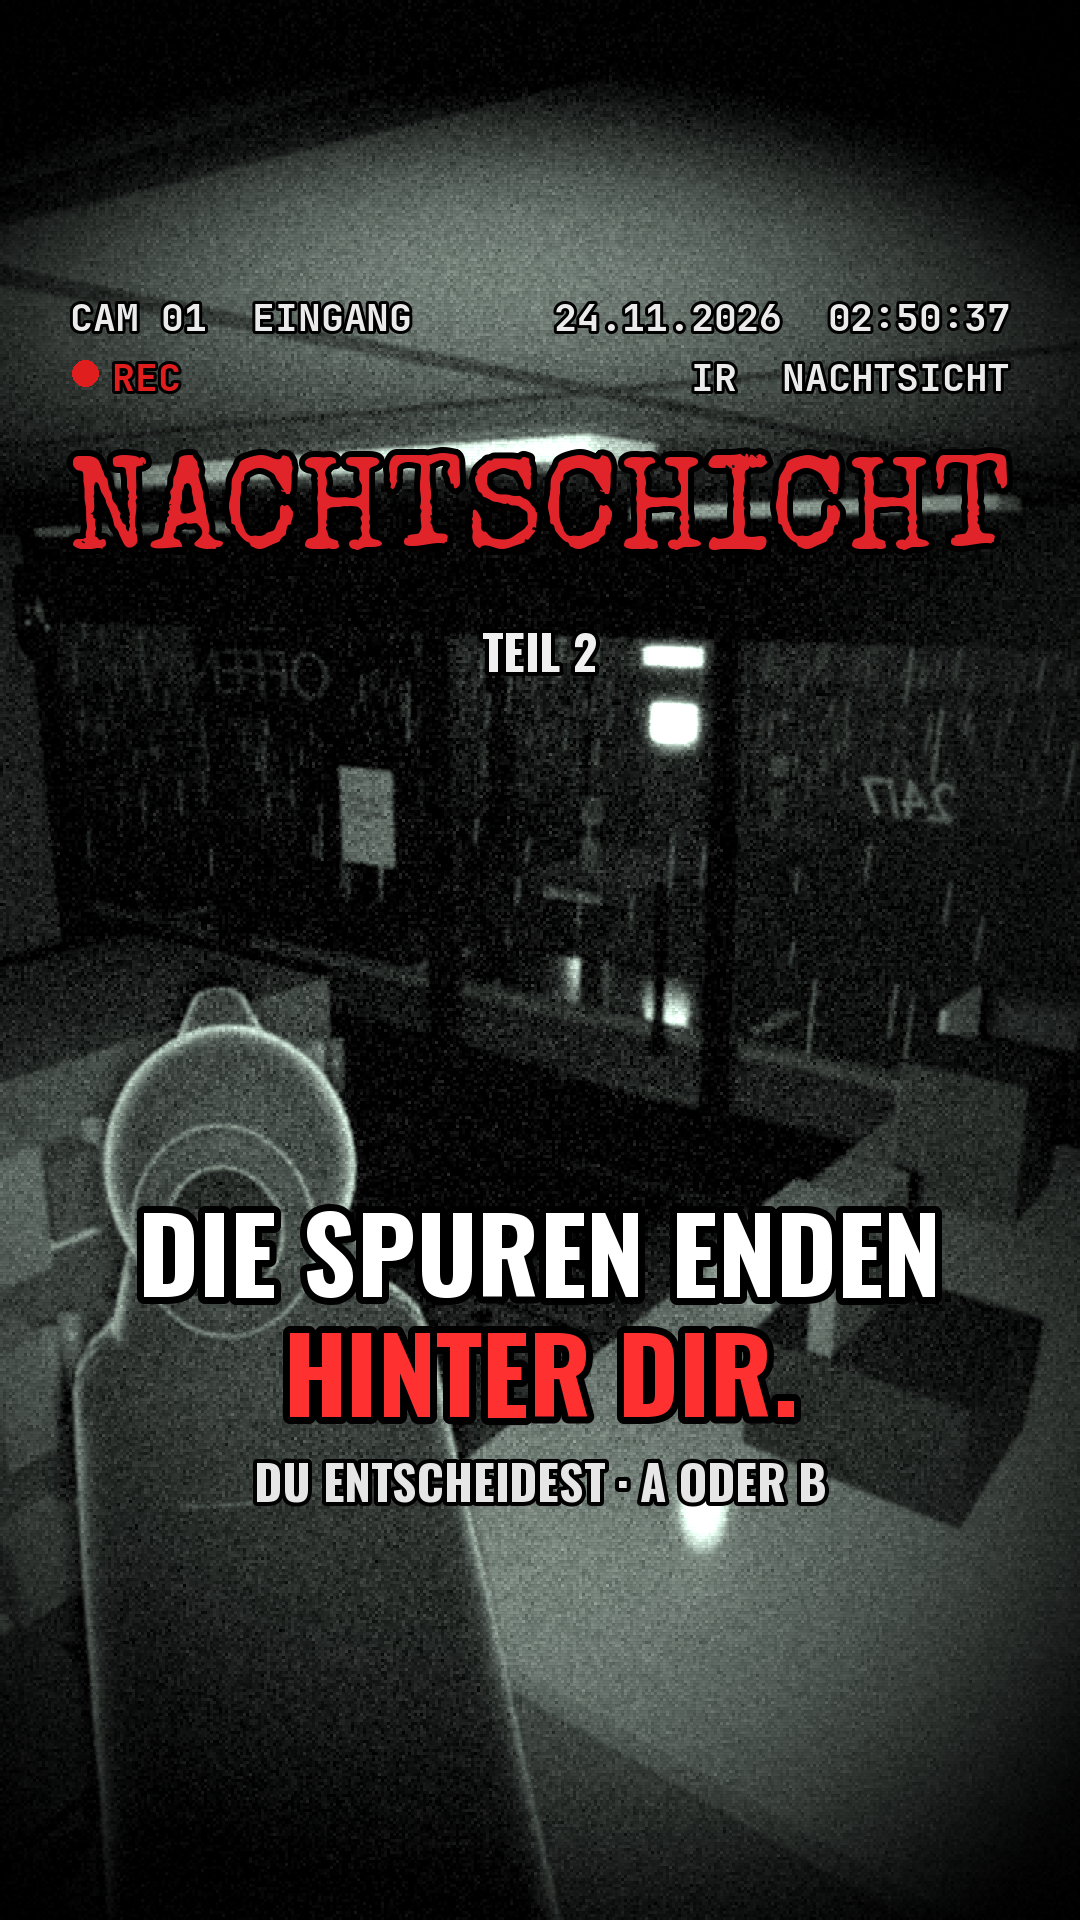
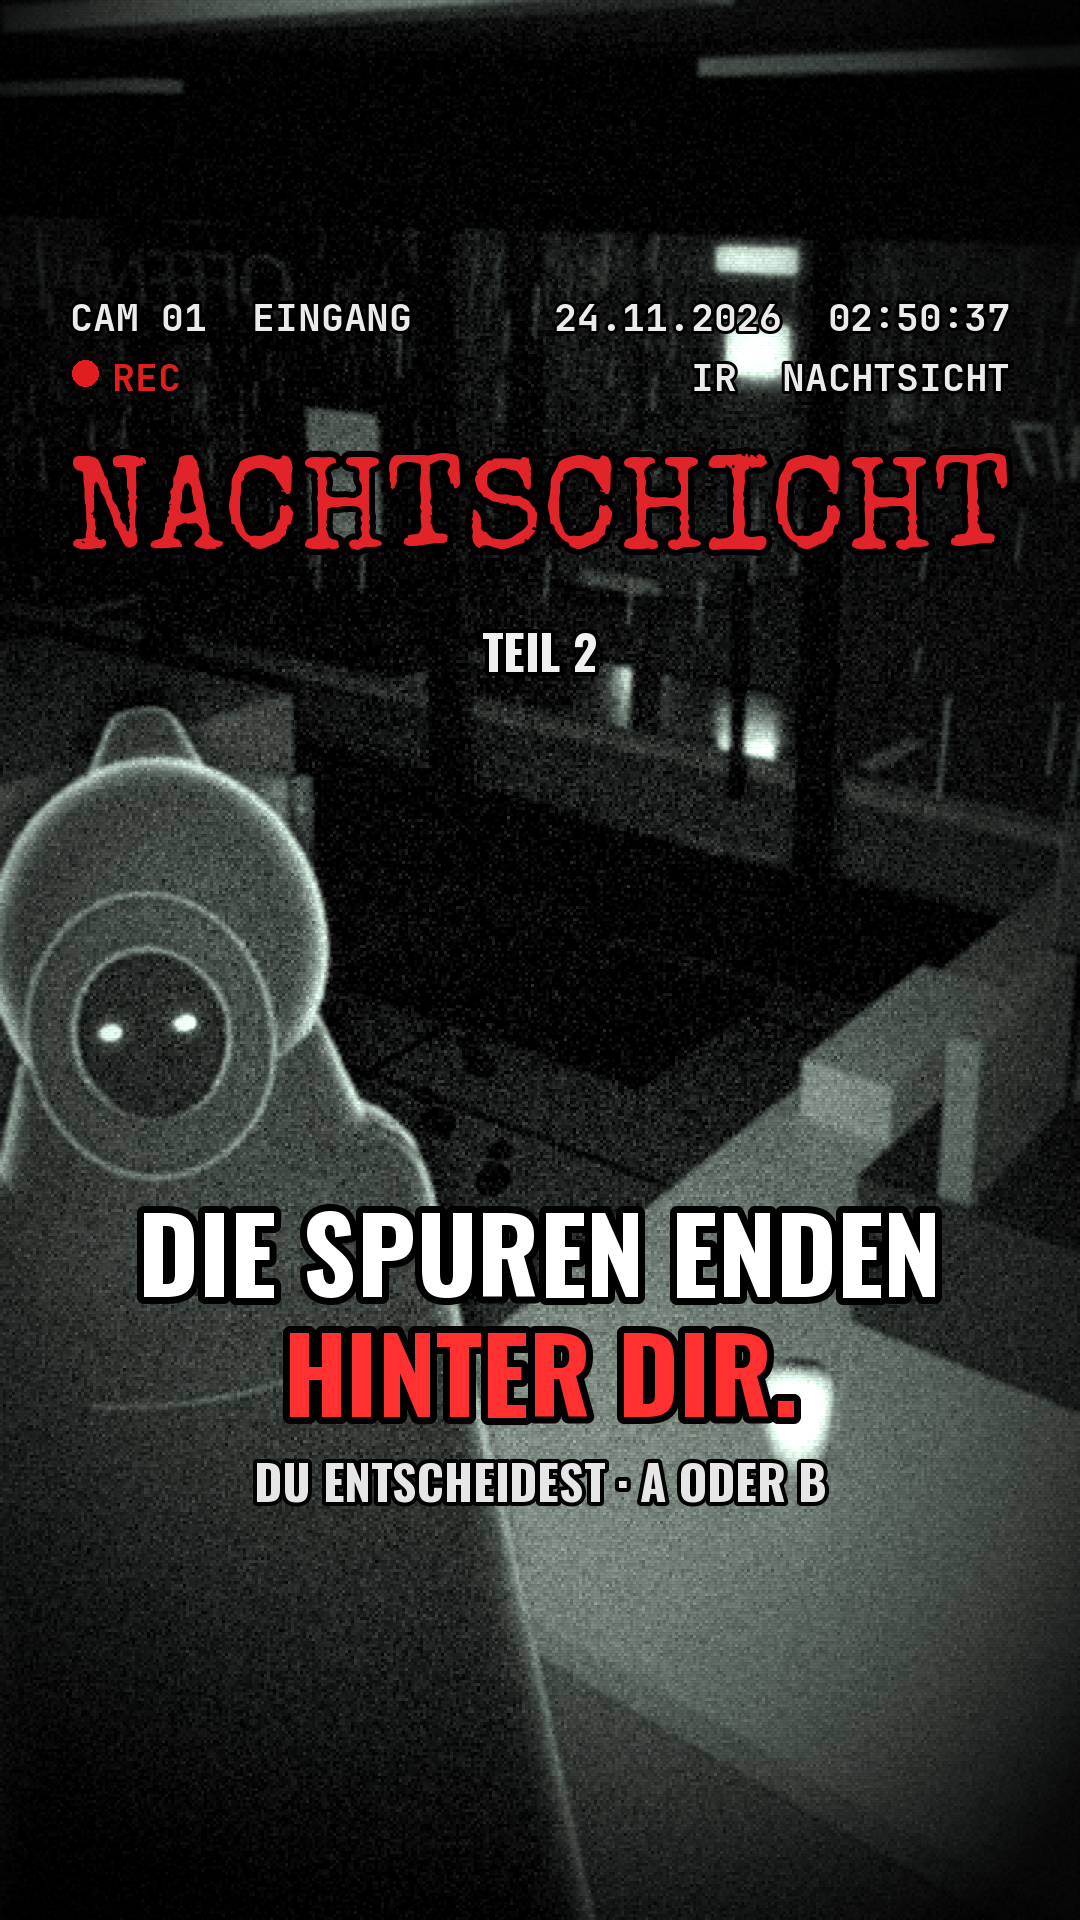
Teil 2 Fassung A: Titelbild näher an der Gestalt (Augen über dem Text)
Claude-Session: https://claude.ai/code/session_01RcqNSfogLFpqqw5g7CSY9W

diff --git a/nachtschicht-teil2/assemble.py b/nachtschicht-teil2/assemble.py
@@ -456,7 +456,8 @@ Format: Layer, Start, End, Style, Name, MarginL, MarginR, MarginV, Effect, Text
 
 def cover():
     if Z == "a":
-        img = render_ir(dict(next(s for s in SHOTS if s["kind"] == "ir"), zoom=None), next(s for s in SHOTS if s["kind"] == "ir")["t"][0] + 1.0)
+        ir_s = next(s for s in SHOTS if s["kind"] == "ir")
+        img = render_ir(dict(ir_s, zoom=[0, 1, 1.35, 1.35]), ir_s["t"][0] + 1.0)   # näher an die Gestalt: Augen über dem Text
         l1, l2 = "DIE SPUREN ENDEN", "HINTER DIR."
     else:
         s6 = next(s for s in SHOTS if s["id"] == "SH6")
